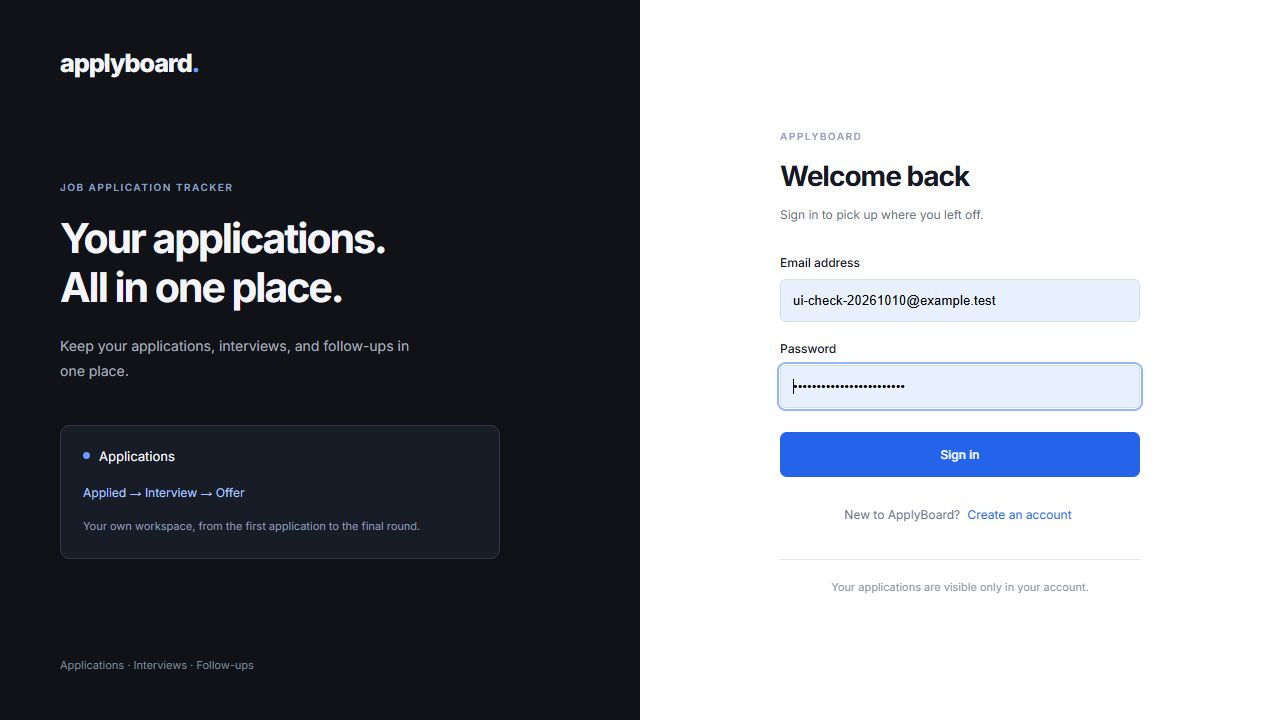
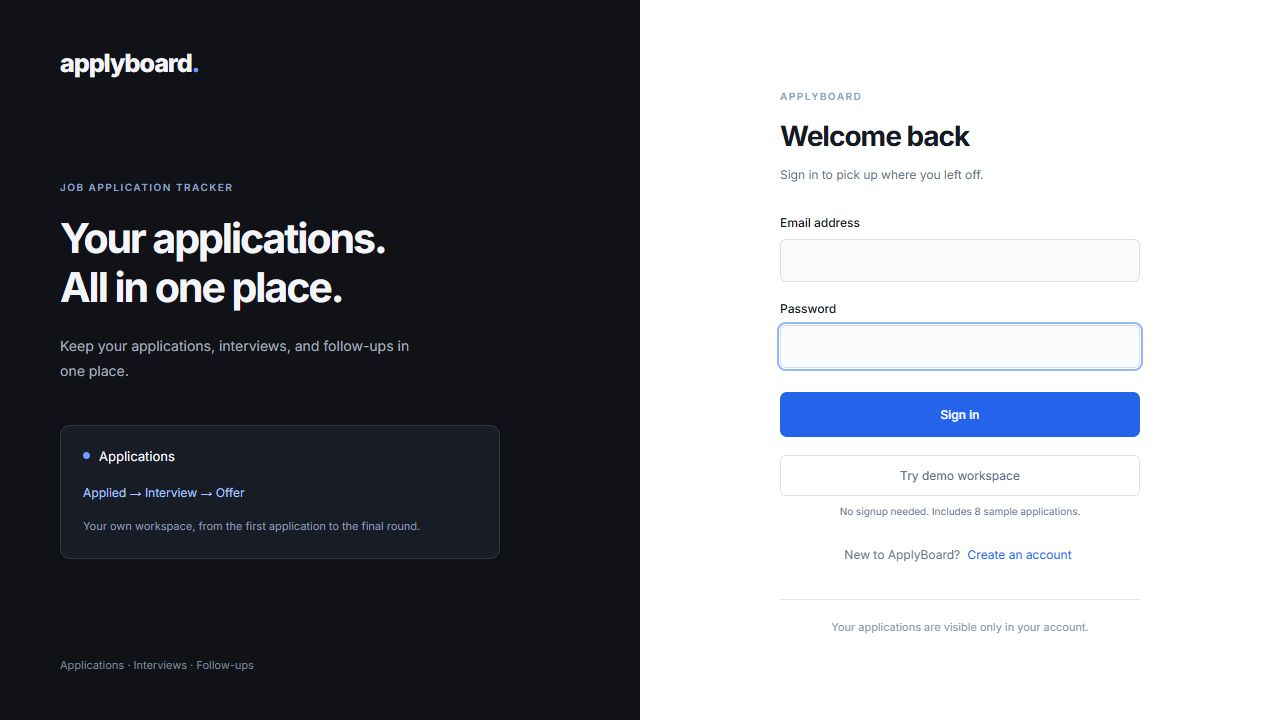
Add one-click demo workspaces with sample applications

diff --git a/server/auth.js b/server/auth.js
@@ -3,12 +3,16 @@ import mongoose from 'mongoose';
 import { randomBytes, scrypt as scryptCallback, timingSafeEqual, createHash } from 'node:crypto';
 import { promisify } from 'node:util';
 import { z } from 'zod';
+import { Application } from './models/Application.js';
+import { sampleApplications } from './sampleApplications.js';
 
 const scrypt = promisify(scryptCallback);
 const userSchema = new mongoose.Schema({
   name: { type: String, required: true },
   email: { type: String, required: true, unique: true },
   passwordHash: { type: String, required: true, select: false },
+  isDemo: { type: Boolean, default: false },
+  expiresAt: { type: Date, index: { expires: 0 } },
 });
 export const User = mongoose.model('User', userSchema);
 export const Session = mongoose.model(
@@ -28,7 +32,12 @@ const cookieOptions = {
   path: '/',
 };
 const tokenHash = (token) => createHash('sha256').update(token).digest('hex');
-const publicUser = (user) => ({ _id: user._id, name: user.name, email: user.email });
+const publicUser = (user) => ({
+  _id: user._id,
+  name: user.name,
+  email: user.email,
+  ...(user.isDemo ? { isDemo: true } : {}),
+});
 const credentials = z
   .object({
     email: z.string().trim().toLowerCase().email().max(254),
@@ -57,12 +66,15 @@ function sessionToken(req) {
 }
 async function createSession(user, res) {
   const token = randomBytes(32).toString('hex');
+  const maxAge = user.isDemo
+    ? Math.max(0, new Date(user.expiresAt).getTime() - Date.now())
+    : sessionAge;
   await Session.create({
     tokenHash: tokenHash(token),
     userId: user._id,
-    expiresAt: new Date(Date.now() + sessionAge),
+    expiresAt: new Date(Date.now() + maxAge),
   });
-  res.cookie(cookieName, token, { ...cookieOptions, maxAge: sessionAge });
+  res.cookie(cookieName, token, { ...cookieOptions, maxAge });
 }
 export async function requireUser(req, res, next) {
   const token = sessionToken(req);
@@ -70,8 +82,10 @@ export async function requireUser(req, res, next) {
     token &&
     (await Session.findOne({ tokenHash: tokenHash(token), expiresAt: { $gt: new Date() } }).lean());
   const user = session && (await User.findById(session.userId).lean());
-  if (!user) return res.status(401).json({ message: 'Please sign in to continue.' });
+  if (!user || (user.isDemo && new Date(user.expiresAt) <= new Date()))
+    return res.status(401).json({ message: 'Please sign in to continue.' });
   req.user = publicUser(user);
+  if (user.isDemo) req.demoExpiresAt = user.expiresAt;
   next();
 }
 
@@ -135,6 +149,22 @@ auth.post('/register', limitAttempts, async (req, res) => {
 });
 // A dummy hash keeps a missing account on the same password-verification path.
 const dummyHash = await hashPassword(randomBytes(32).toString('hex'));
+
+auth.post('/demo', limitAttempts, async (req, res) => {
+  const expiresAt = new Date(Date.now() + 24 * 60 * 60 * 1000);
+  const user = await User.create({
+    name: 'Demo workspace',
+    email: `${randomBytes(16).toString('hex')}@demo.applyboard.invalid`,
+    passwordHash: await hashPassword(randomBytes(32).toString('hex')),
+    isDemo: true,
+    expiresAt,
+  });
+  await Application.insertMany(sampleApplications(user._id, new Date(), expiresAt));
+  const oldToken = sessionToken(req);
+  if (oldToken) await Session.deleteOne({ tokenHash: tokenHash(oldToken) });
+  await createSession(user, res);
+  res.status(201).json({ user: publicUser(user) });
+});
 auth.post('/login', limitAttempts, async (req, res) => {
   const result = credentials.safeParse(req.body);
   if (!result.success)

diff --git a/server/sampleApplications.js b/server/sampleApplications.js
@@ -1,0 +1,92 @@
+import { randomUUID } from 'node:crypto';
+
+export function sampleApplications(userId, now = new Date(), expiresAt) {
+  const date = (days) => new Date(now.getTime() + days * 86400000).toISOString().slice(0, 10);
+  const interview = (days, label, notes) => ({
+    id: randomUUID(),
+    label,
+    at: new Date(now.getTime() + days * 86400000).toISOString(),
+    status: 'Scheduled',
+    notes,
+  });
+  return [
+    {
+      company: 'Northstar',
+      role: 'Frontend Engineer',
+      location: 'Remote',
+      status: 'Interview',
+      appliedDate: date(-12),
+      notes: 'Fictional example. Prepare a React project walkthrough.',
+      interviewRounds: [
+        interview(2, 'Technical interview', 'Discuss component design and API integration.'),
+      ],
+      followUpDate: date(0),
+      nextStep: 'Confirm the interview agenda.',
+    },
+    {
+      company: 'Studio Eleven',
+      role: 'Full Stack Developer',
+      location: 'London · Hybrid',
+      status: 'Applied',
+      appliedDate: date(-3),
+      followUpDate: date(-1),
+      nextStep: 'Ask the recruiter about the next round.',
+    },
+    {
+      company: 'Bloom',
+      role: 'Software Engineer',
+      location: 'Remote',
+      status: 'Wishlist',
+      notes: 'Read about the product and engineering team before applying.',
+    },
+    {
+      company: 'Orbit Labs',
+      role: 'Product Engineer',
+      location: 'Berlin',
+      status: 'Offer',
+      appliedDate: date(-36),
+      notes: 'Compare the role responsibilities and team before responding.',
+    },
+    {
+      company: 'Harbor',
+      role: 'Backend Developer',
+      location: 'Remote',
+      status: 'Rejected',
+      appliedDate: date(-45),
+      notes: 'Keep the feedback for the next application.',
+    },
+    {
+      company: 'Metric',
+      role: 'Node.js Developer',
+      location: 'Amsterdam · Hybrid',
+      status: 'Applied',
+      appliedDate: date(-18),
+      followUpDate: date(3),
+      nextStep: 'Check the application status.',
+    },
+    {
+      company: 'Fieldwork',
+      role: 'React Developer',
+      location: 'Remote',
+      status: 'Interview',
+      appliedDate: date(-24),
+      interviewRounds: [
+        interview(4, 'Team interview', 'Prepare questions about code reviews and deployment.'),
+      ],
+      notes: 'Discuss collaboration across design and engineering.',
+    },
+    {
+      company: 'Common Ground',
+      role: 'Full Stack Engineer',
+      location: 'Remote',
+      status: 'Applied',
+      appliedDate: date(-7),
+      notes: 'Tailor the project examples to their stack.',
+    },
+  ].map((application) => ({
+    ...application,
+    userId,
+    ...(expiresAt ? { expiresAt } : {}),
+    activity: [{ message: 'Fictional sample application added', at: now }],
+  }));
+}

diff --git a/server/test/auth.test.js b/server/test/auth.test.js
@@ -137,6 +137,43 @@ test('expired sessions cannot read data and logout invalidates the server sessio
   await first.get('/api/applications').expect(401);
   await request(app).get('/api/auth/me').set('Cookie', activeCookie).expect(401);
 });
+test('demo visitors get isolated seeded workspaces, editable records and expiring sessions', async () => {
+  const demoA = request.agent(app);
+  const demoB = request.agent(app);
+  const resultA = await demoA.post('/api/auth/demo').expect(201);
+  const resultB = await demoB.post('/api/auth/demo').expect(201);
+  assert.equal(resultA.body.user.isDemo, true);
+  assert.notEqual(resultA.body.user._id, resultB.body.user._id);
+  const listA = (await demoA.get('/api/applications').expect(200)).body.applications;
+  const listB = (await demoB.get('/api/applications').expect(200)).body.applications;
+  assert.equal(listA.length, 8);
+  assert.equal(listB.length, 8);
+  assert.equal(new Set(listA.map((record) => record.status)).size, 5);
+  assert.ok(listA.some((record) => record.interviewRounds.length > 0));
+  assert.ok(listA.some((record) => record.followUpDate));
+  assert.ok(listA.every((record) => record.expiresAt));
+  assert.equal((await second.get('/api/applications').expect(200)).body.applications.length, 0);
+  await demoA.patch(`/api/applications/${listA[0]._id}`).send({ status: 'Offer' }).expect(200);
+  await demoB.patch(`/api/applications/${listA[0]._id}`).send({ status: 'Offer' }).expect(404);
+  const newRecord = await demoA
+    .post('/api/applications')
+    .send({ company: 'Demo addition', role: 'Engineer' })
+    .expect(201);
+  const demoUser = await User.findById(resultA.body.user._id);
+  assert.equal(
+    new Date(newRecord.body.application.expiresAt).getTime(),
+    demoUser.expiresAt.getTime(),
+  );
+  assert.ok(demoUser.expiresAt.getTime() <= Date.now() + 24 * 60 * 60 * 1000);
+  const session = await Session.findOne({ userId: demoUser._id });
+  assert.ok(Math.abs(session.expiresAt.getTime() - demoUser.expiresAt.getTime()) < 100);
+  await User.updateOne({ _id: demoUser._id }, { expiresAt: new Date(Date.now() - 1000) });
+  await demoA.get('/api/applications').expect(401);
+  await demoB.get('/api/applications').expect(200);
+  const normalUser = await User.findOne({ email: account.email });
+  assert.equal(normalUser.expiresAt, undefined);
+});
+
 test('authentication attempts are limited', async () => {
   let response;
   for (let count = 0; count < 21; count++) {

diff --git a/client/AccountGate.jsx b/client/AccountGate.jsx
@@ -58,6 +58,22 @@ export default function AccountGate({ children }) {
     setError('');
     setMode('login');
   }
+  async function startDemo() {
+    if (submitting.current) return;
+    submitting.current = true;
+    setBusy(true);
+    setError('');
+    try {
+      const data = await authRequest('/demo', { method: 'POST' });
+      setValues({ name: '', email: '', password: '' });
+      setUser(data.user);
+    } catch (err) {
+      setError(err.message);
+    } finally {
+      submitting.current = false;
+      setBusy(false);
+    }
+  }
   if (checking)
     return (
       <div className="account-loading" role="status">
@@ -155,6 +171,12 @@ export default function AccountGate({ children }) {
               </button>
             </fieldset>
           </form>
+          <div className="demo-entry">
+            <button className="secondary-button" disabled={busy} onClick={startDemo}>
+              Try demo workspace
+            </button>
+            <small>No signup needed. Includes 8 sample applications.</small>
+          </div>
           <p className="account-mode">
             {mode === 'register' ? 'Already have an account?' : 'New to ApplyBoard?'}{' '}
             <button

diff --git a/client/styles.css b/client/styles.css
@@ -17,6 +17,33 @@
   gap: 12px;
   color: var(--muted);
 }
+.demo-entry {
+  margin-top: 18px;
+  text-align: center;
+}
+.demo-entry .secondary-button {
+  width: 100%;
+  padding: 12px;
+}
+.demo-entry small {
+  display: block;
+  margin-top: 9px;
+  color: var(--muted);
+  font-size: 10px;
+}
+.demo-banner {
+  display: flex;
+  flex-wrap: wrap;
+  gap: 8px 14px;
+  border: 1px solid #cbdcff;
+  background: #edf3ff;
+  color: #365788;
+  padding: 13px 16px;
+  border-radius: 7px;
+  margin-bottom: 25px;
+  font-size: 11px;
+  line-height: 1.6;
+}
 .account-page {
   display: grid;
   grid-template-columns: 1fr 1fr;

diff --git a/client/App.jsx b/client/App.jsx
@@ -245,6 +245,14 @@ function Workspace({ user, onLogout }) {
           </div>
         </header>
         <div className="content">
+          {user.isDemo && (
+            <div className="demo-banner" role="note">
+              <strong>Demo workspace</strong>
+              <span>
+                Fictional sample data. You can edit freely; this workspace expires after 24 hours.
+              </span>
+            </div>
+          )}
           <div className="page-heading">
             <div>
               <h1>Applications</h1>

diff --git a/server/models/Application.js b/server/models/Application.js
@@ -22,6 +22,7 @@ const activitySchema = new mongoose.Schema(
 const applicationSchema = new mongoose.Schema(
   {
     userId: { type: mongoose.Schema.Types.ObjectId, ref: 'User', index: true },
+    expiresAt: { type: Date, index: { expires: 0 } },
     company: { type: String, required: true, trim: true, maxlength: 100 },
     role: { type: String, required: true, trim: true, maxlength: 150 },
     location: { type: String, trim: true, default: '', maxlength: 100 },

diff --git a/server/app.js b/server/app.js
@@ -57,6 +57,7 @@ app.post('/api/applications', async (req, res) => {
   const application = await Application.create({
     ...result.data,
     userId: req.user._id,
+    ...(req.demoExpiresAt ? { expiresAt: req.demoExpiresAt } : {}),
     activity: [{ message: 'Application created' }],
   });
   res.status(201).json({ application });

diff --git a/README.md b/README.md
@@ -9,6 +9,7 @@ A MERN application for tracking job applications. Save roles, update their statu
 ## Features
 
 - Create an account, sign in, and sign out. Each account has its own private applications, board, and analytics.
+- Try the app without signing up using **Try demo workspace** on the login page. Each visitor gets eight fictional sample applications in an isolated, editable workspace that expires after 24 hours.
 - Create, edit, and delete applications with company, role, location, posting URL, applied date, and notes.
 - Move opportunities through Wishlist, Applied, Interview, Offer, and Rejected.
 - Switch between a list and a Kanban board. Drag cards between stages, or use the status menu on touch devices and with a keyboard. Status changes persist after the API confirms the update.
@@ -52,6 +53,8 @@ pnpm dev
 ```
 
 Open **http://127.0.0.1:5173** and create an account. Vite proxies `/api` to Express at port 4000. Optional: `pnpm seed your@email.com` adds four fictional examples to an existing account only when that account has no applications. It uses the database configured in `.env`.
+
+For a quick review, click **Try demo workspace**. No credentials or manual seed step are needed. The samples cover all five stages, upcoming interview rounds, due follow-ups, and application dates across the analytics chart. Each click creates a new demo account, so visitors do not overwrite each other's changes. Demo accounts, their applications, and their sessions have expiry dates and MongoDB TTL indexes. Access stops after 24 hours; MongoDB removes expired data asynchronously. Regular accounts are not affected.
 Keep `PORT=4000` when using the development proxy.
 
 ### No MongoDB installed?
@@ -109,17 +112,18 @@ Interview times are stored as ISO timestamps and displayed in the device’s loc
 
 Completed and cancelled rounds remain in the application but are excluded from upcoming interviews. Each round has a stable identifier and a separate calendar event. Older single-interview records appear as an existing round and are converted when saved, with no manual database migration required. Activity history is maintained by the server and cannot be supplied or edited through API input. It starts with new changes for records created before this feature and is removed when the application is deleted.
 
-| Method | Endpoint                                  | Purpose                    |
-| ------ | ----------------------------------------- | -------------------------- |
-| GET    | `/api/health`                             | Database readiness         |
-| POST   | `/api/auth/register`                      | Create account and session |
-| POST   | `/api/auth/login`                         | Sign in                    |
-| GET    | `/api/auth/me`                            | Current profile            |
-| POST   | `/api/auth/logout`                        | Revoke session             |
-| GET    | `/api/applications?q=text&status=Applied` | List/search/filter         |
-| POST   | `/api/applications`                       | Create                     |
-| PATCH  | `/api/applications/:id`                   | Update selected fields     |
-| DELETE | `/api/applications/:id`                   | Delete                     |
+| Method | Endpoint                                  | Purpose                     |
+| ------ | ----------------------------------------- | --------------------------- |
+| GET    | `/api/health`                             | Database readiness          |
+| POST   | `/api/auth/register`                      | Create account and session  |
+| POST   | `/api/auth/login`                         | Sign in                     |
+| POST   | `/api/auth/demo`                          | Start seeded demo workspace |
+| GET    | `/api/auth/me`                            | Current profile             |
+| POST   | `/api/auth/logout`                        | Revoke session              |
+| GET    | `/api/applications?q=text&status=Applied` | List/search/filter          |
+| POST   | `/api/applications`                       | Create                      |
+| PATCH  | `/api/applications/:id`                   | Update selected fields      |
+| DELETE | `/api/applications/:id`                   | Delete                      |
 
 Errors use JSON with a `message`, and validation failures include field details. Posting links allow only HTTP(S); search treats user text as a literal string rather than executable regex syntax.
 
